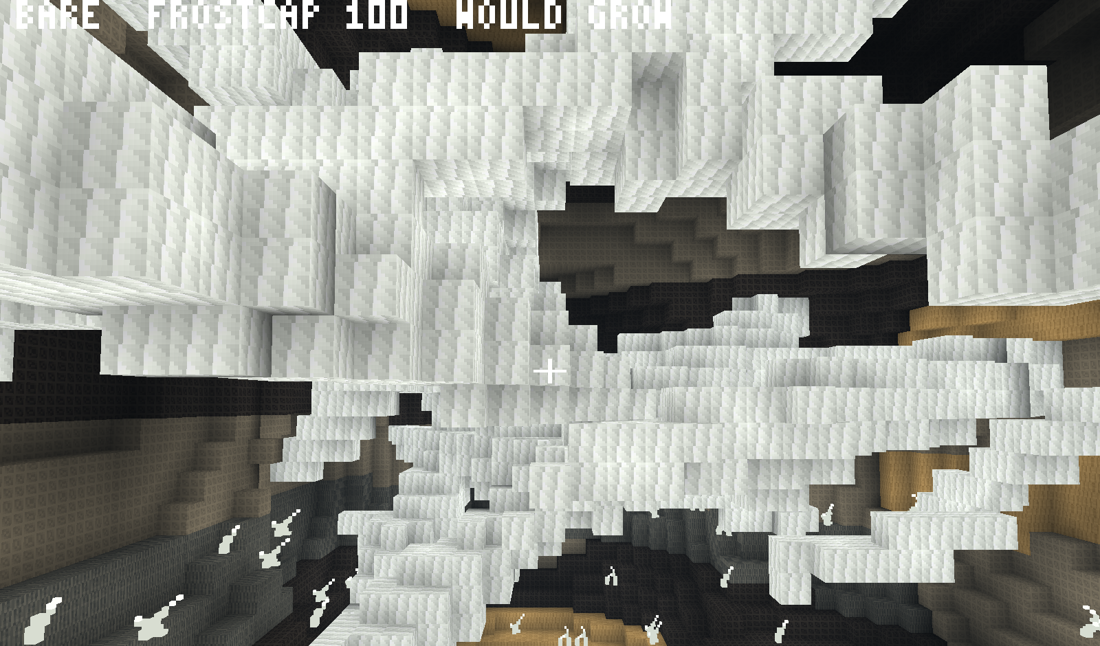
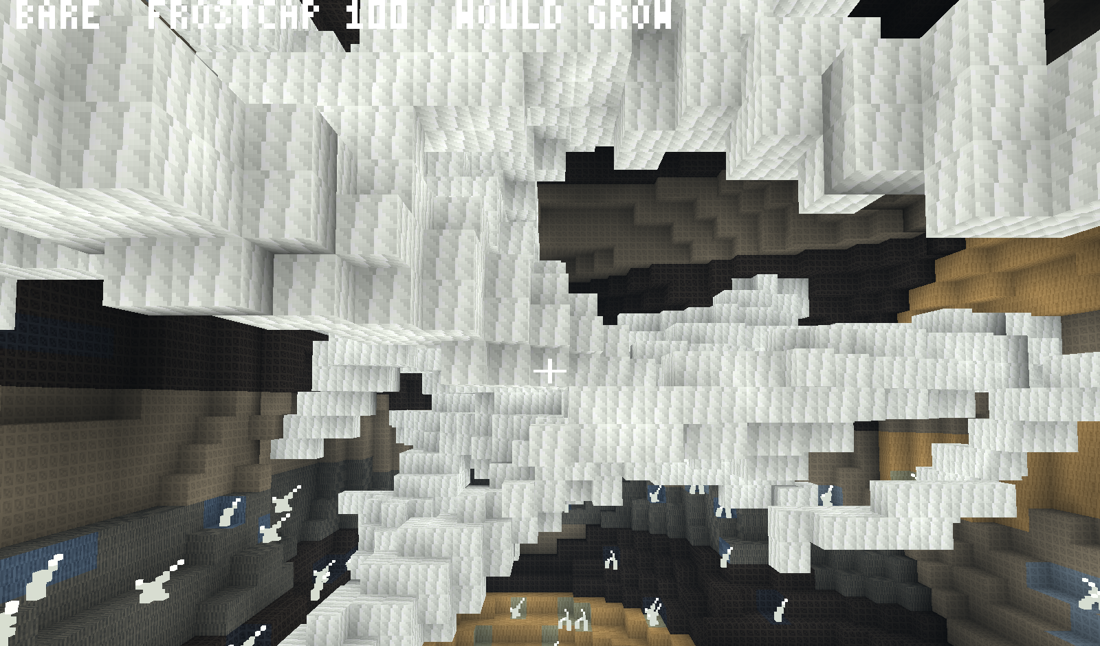
feat(light): coloured block light, in the nibble the byte had spare
Every emitter lit the world the same warm orange, so a selenite beam cast an
orange glow on the rock round it and the self-lit effect, which fixes an
emitter's own faces, could not fix what it cast. Three fields were the plan; a
nibble was enough. A block-light byte holds a level in its low nibble and
nothing in its high one, so the high nibble now carries the emitter's colour
index, swept along with the level: the sweep's reads compare on the low nibble
and its writes carry 16 x colour of the source to every neighbour it lights.
Skylight's nibble is always zero, so every skylight byte is what it was — and
so is every block-light byte in a world with no cold emitter: seed 7's pinned
hashes did not move.

Light.get strips the nibble, so every level caller is unchanged; Light.colour
reads it. key_for reads the colour just outside a face into bits 56-57 of the
greedy key; cf_quad_into decodes it into bits 16+ of the fx word; the shader
picks GLOW_COLD for colour 1. The effect id is eight bits, not sixteen: the
test pinning the sixteen-bit ceiling was pinning an accident.

Limit: two colours meeting make a seam, not a blend. One index is not three
channels.

534 tests. Worst frame 7.90 ms. docs/poi-crystal-cavern.png under its own light.

diff --git a/native/cf_shim.c b/native/cf_shim.c
@@ -247,7 +247,7 @@ static const char *VS =
     /* Water bobs: a small vertical wave on any water effect (>= 2). Cosmetic
      * only -- v_world stays at the true position so lighting, shadows and
      * fog see the block the game logic sees. */
-    "  int fe = int(a_fx + 0.5) >> 8;\n"
+    "  int fe = (int(a_fx + 0.5) >> 8) & 255;\n"
     "  vec3 p = a_pos;\n"
     "  vec3 n = NORMALS[f];\n"
     "  if (u_model == 1) {\n"
@@ -312,6 +312,10 @@ static const char *FS =
     /* Block light (glowing fungus, later any emissive block): warm, and its own
      * source rather than a sun term. */
     "const vec3  GLOW = vec3(1.00, 0.90, 0.70);\n"
+    /* Block light carries a colour index (Light.colour_cold): the cold, near-white
+     * cast of selenite, so a crystal cavern's walls are lit by what is in it
+     * rather than by the same orange as a glowing mushroom. */
+    "const vec3  GLOW_COLD = vec3(0.82, 0.94, 1.00);\n"
     /* Deep water. A water fragment has no idea how much water is under it --
      * its colour is a texture times the light -- so a 24-block lagoon rendered
      * exactly like a puddle. Still water (effect 10) carries its depth in
@@ -480,7 +484,8 @@ static const char *FS =
     "const vec2 DIRS[8] = vec2[8](vec2(1,0), vec2(0.7071,0.7071), vec2(0,1), vec2(-0.7071,0.7071), vec2(-1,0), vec2(-0.7071,-0.7071), vec2(0,-1), vec2(0.7071,-0.7071));\n"
     "void main(){\n"
     "  int  fxw = int(v_fx + 0.5);\n"
-    "  int  fe  = fxw >> 8;\n"
+    "  int  fe  = (fxw >> 8) & 255;\n"
+    "  int  lci = fxw >> 16;\n"
     /* The shade float packs two channels (see Vertex.pack_shade): sky shade in
      * [0, 1], and block-light shade in even integers above it. Overlays push a
      * plain shade in [0, 1], which decodes as sky-only and leaves them alone. */
@@ -570,7 +575,7 @@ static const char *FS =
      * glowing mushroom. This fixes the emitter's own faces; the light it casts
      * on the rock around it is still warm, and fixing that needs three
      * block-light fields. */
-    "  vec3  glow = (fe == 12) ? t.rgb * 1.15 : GLOW;\n"
+    "  vec3  glow = (fe == 12) ? t.rgb * 1.15 : ((lci == 1) ? GLOW_COLD : GLOW);\n"
     "  vec3  world = max(baked, bl * glow) + vec3(flash);\n"
     /* Overlays (HUD, outline, map marker) share this program but are not part of
      * the world: they keep their own vertex shade and skip lighting entirely. */
@@ -591,7 +596,7 @@ static const char *FS =
      * rain out exactly as the storm peaked.
      *
      * Exponential fog, so the far plane does not enter into it. */
-    "  if (u_unlit != 1 && (fx >> 8) != 1) lit = mix(lit, u_fog_color, fogf);\n"
+    "  if (u_unlit != 1 && ((fx >> 8) & 255) != 1) lit = mix(lit, u_fog_color, fogf);\n"
     /* Deep water is more opaque than shallow: you can read the bottom of a
      * puddle and not the bottom of a lagoon. */
     "  o_color = vec4(lit, mix(t.a * a, 1.0, 0.7 * deep));\n"
@@ -1623,10 +1628,11 @@ static double cf_brightness(double p) { double h = floor(p / 2.0); return (p - 2
  * A layer of 1000 or more is Texture.selflit_bias: the block lights its own
  * faces with its own colour, and the bias is how that one bit reaches here
  * without a second array through the FFI. Strip it and set effect 12. */
-static void cf_vert(float *o, double x, double y, double z, double u, double v, double layer, double shade, double face) {
+static void cf_vert(float *o, double x, double y, double z, double u, double v, double layer, double shade, double face, int64_t col) {
     double blk = floor(shade * 0.5);
-    double fx = 255.0;
-    if (layer >= 1000.0) { layer -= 1000.0; fx = 12.0 * 256.0 + 255.0; }
+    /* the block light's colour index rides in bits 16 and up of fx (Vertex.light_colour_of) */
+    double fx = 255.0 + 65536.0 * (double)col;
+    if (layer >= 1000.0) { layer -= 1000.0; fx = 12.0 * 256.0 + 255.0 + 65536.0 * (double)col; }
     o[0] = (float)x; o[1] = (float)y; o[2] = (float)z; o[3] = (float)u; o[4] = (float)v;
     o[5] = (float)layer; o[6] = (float)(shade - 2.0 * blk); o[7] = (float)face; o[8] = (float)fx;
     o[9] = (float)(blk / 255.0);
@@ -1695,6 +1701,7 @@ static void cf_quad_into(float *o, int64_t d, int64_t sy, int64_t a, int64_t u, 
     int64_t id = key % 256;
     int64_t c0 = (key / 256) % 1024, c1 = (key / 262144) % 1024, c2 = (key / 268435456) % 1024, c3 = (key / 274877906944LL) % 1024;
     int64_t sp = (key / 281474976710656LL) % 256;
+    int64_t col = (key / 72057594037927936LL) % 4;   /* the face's block-light colour, bits 56.. */
     double layer;
     if (id >= 26 && id <= 46 && sp > 0) {
         int64_t k = (id - 26) / 3;
@@ -1747,19 +1754,19 @@ static void cf_quad_into(float *o, int64_t d, int64_t sy, int64_t a, int64_t u, 
     double face = (double)d;
     int flip = cf_brightness(S[0]) + cf_brightness(S[2]) < cf_brightness(S[1]) + cf_brightness(S[3]);
     if (flip) {
-        cf_vert(o + 0,  X[1], Y[1], Z[1], uw,  0.0, layer, S[1], face);
-        cf_vert(o + 10,  X[2], Y[2], Z[2], uw,  vh,  layer, S[2], face);
-        cf_vert(o + 20, X[3], Y[3], Z[3], 0.0, vh,  layer, S[3], face);
-        cf_vert(o + 30, X[1], Y[1], Z[1], uw,  0.0, layer, S[1], face);
-        cf_vert(o + 40, X[3], Y[3], Z[3], 0.0, vh,  layer, S[3], face);
-        cf_vert(o + 50, X[0], Y[0], Z[0], 0.0, 0.0, layer, S[0], face);
+        cf_vert(o + 0,  X[1], Y[1], Z[1], uw,  0.0, layer, S[1], face, col);
+        cf_vert(o + 10,  X[2], Y[2], Z[2], uw,  vh,  layer, S[2], face, col);
+        cf_vert(o + 20, X[3], Y[3], Z[3], 0.0, vh,  layer, S[3], face, col);
+        cf_vert(o + 30, X[1], Y[1], Z[1], uw,  0.0, layer, S[1], face, col);
+        cf_vert(o + 40, X[3], Y[3], Z[3], 0.0, vh,  layer, S[3], face, col);
+        cf_vert(o + 50, X[0], Y[0], Z[0], 0.0, 0.0, layer, S[0], face, col);
     } else {
-        cf_vert(o + 0,  X[0], Y[0], Z[0], 0.0, 0.0, layer, S[0], face);
-        cf_vert(o + 10,  X[1], Y[1], Z[1], uw,  0.0, layer, S[1], face);
-        cf_vert(o + 20, X[2], Y[2], Z[2], uw,  vh,  layer, S[2], face);
-        cf_vert(o + 30, X[0], Y[0], Z[0], 0.0, 0.0, layer, S[0], face);
-        cf_vert(o + 40, X[2], Y[2], Z[2], uw,  vh,  layer, S[2], face);
-        cf_vert(o + 50, X[3], Y[3], Z[3], 0.0, vh,  layer, S[3], face);
+        cf_vert(o + 0,  X[0], Y[0], Z[0], 0.0, 0.0, layer, S[0], face, col);
+        cf_vert(o + 10,  X[1], Y[1], Z[1], uw,  0.0, layer, S[1], face, col);
+        cf_vert(o + 20, X[2], Y[2], Z[2], uw,  vh,  layer, S[2], face, col);
+        cf_vert(o + 30, X[0], Y[0], Z[0], 0.0, 0.0, layer, S[0], face, col);
+        cf_vert(o + 40, X[2], Y[2], Z[2], uw,  vh,  layer, S[2], face, col);
+        cf_vert(o + 50, X[3], Y[3], Z[3], 0.0, vh,  layer, S[3], face, col);
     }
 }
 

diff --git a/todos.md b/todos.md
@@ -35,7 +35,7 @@ measurements.
 - [x] **World size in the seed; the new-world page** — done 2026-09-05 (terrain-erosion spec, "World size"): 64/96/128-block worlds, the side packed above the age in the seed, NEW GAME asks size and age (RANDOM or set) before START, `CF_SIZE`, slots load at their own side. Above 128 is the literal refactor `world_size_test` names.
 - [x] **Lake outlets on ancient worlds** — resolved 2026-09-05: the creeping flow was cave worms breaching lake basins, not sheets on terraces; worms now keep out of basin walls (`Caves.basin_wall`, `CF_KARST`), and since a full lake turned out to have no outlet at all, the pour point is dug one block down as a notch, one per basin of six or more columns. Flow plateaus at ~400 cells at both ages. See the lakes spec §3 and §6.
 
-- [x] **Points of interest** — done 2026-09-07 (`docs/superpowers/specs/2026-09-06-points-of-interest-design.md`, plan `docs/superpowers/plans/2026-09-06-poi-phase1.md`, measurements in RESULTS). All seven kinds from the request are in: desert buttes, the stone arch, the crystal cavern, the giant tree, the canyon, the atoll, the delta. A kind is a row in `CubeForge.Poi`'s tables plus a shape from shared profiles; three classes (scatter, landmark, field) decide where its rules are read; `CF_POI_PREVIEW=<kind>` draws it, `CF_POI_TRANSECT=<z>` reads a landform across the world, `CF_POI_GATE=1` says which placement rule refuses a kind, and one test walks every kind through the invariants. `CF_POI=0` leaves the world bit-identical. Landed on the way: the water depth tint, self-lit emissive faces, `CF_SPAWN_X/Z`, `CF_YAW`. **Follow-ups, not started:** coloured block light (three fields) so an emitter's cast light matches its own colour; another look at the crystals' proportions; the atoll now sits in real sea: an open-ocean regime landed in `Noise` on 2026-09-07 (`ocean_mask`, `ocean_of`), and the atoll's country is the ocean's mask.
+- [x] **Points of interest** — done 2026-09-07 (`docs/superpowers/specs/2026-09-06-points-of-interest-design.md`, plan `docs/superpowers/plans/2026-09-06-poi-phase1.md`, measurements in RESULTS). All seven kinds from the request are in: desert buttes, the stone arch, the crystal cavern, the giant tree, the canyon, the atoll, the delta. A kind is a row in `CubeForge.Poi`'s tables plus a shape from shared profiles; three classes (scatter, landmark, field) decide where its rules are read; `CF_POI_PREVIEW=<kind>` draws it, `CF_POI_TRANSECT=<z>` reads a landform across the world, `CF_POI_GATE=1` says which placement rule refuses a kind, and one test walks every kind through the invariants. `CF_POI=0` leaves the world bit-identical. Landed on the way: the water depth tint, self-lit emissive faces, `CF_SPAWN_X/Z`, `CF_YAW`. **Follow-ups:** coloured block light landed 2026-09-07 as a colour index in the block-light byte's spare nibble, not three fields -- cast light now matches the emitter, with a hard seam rather than a blend where two colours meet; the crystals were revisited the same day with `CF_POI_SLICE`; the atoll now sits in real sea: an open-ocean regime landed in `Noise` on 2026-09-07 (`ocean_mask`, `ocean_of`), and the atoll's country is the ocean's mask.
 
 ## Play
 

diff --git a/RESULTS.md b/RESULTS.md
@@ -3377,3 +3377,39 @@ change the slice showed plainly. The world hash at that spawn responds to
 `CF_POI`, so the beams were there; at floor level looking down, a chamber whose
 ceiling is white shafts looks the same whether the shafts are a slab or six.
 The camera was the wrong instrument; the slice was the right one.
+
+## Coloured block light, in the nibble the byte had spare (2026-09-07)
+
+Every emitter lit the world the same warm orange, so a near-white selenite
+beam cast an orange glow on the rock round it, and the self-lit effect (which
+fixes an emitter's own faces) could not fix what it cast. The design note said
+three fields -- 12 MB instead of 4, three sweeps, a wider vertex. It was not
+needed. A block-light byte holds a level of 0..15 in its low nibble and nothing
+in its high one, so the high nibble now carries the emitter's **colour index**,
+swept along with the level: `give1`, `give_level`, `at_level`, `level_go`, the
+gather and the two write sites (`list_go`, `full_row_ip`) compare on the low
+nibble and carry `16 * colour` of the source into every neighbour they light.
+Seeding writes `pack_bl(emission, emission_colour)`. Skylight's colour nibble is
+always zero, so every skylight byte is what it was, bit for bit -- and so is
+every block-light byte in a world without a cold emitter: seed 7's pinned
+hashes did not move.
+
+From the field to the pixel: `Light.get` strips the nibble, so every caller that
+wanted a level still gets one; `Light.colour` reads it. `key_for` reads the
+colour at the voxel just outside a face and puts it in **bits 56 and 57** of the
+greedy key, above the species, so faces lit by different emitters do not merge;
+`cf_quad_into` decodes it and `cf_vert` writes it into bits 16 and up of the fx
+word (`Vertex.light_colour_of`); the shader picks `GLOW_COLD` -- (0.82, 0.94,
+1.00) -- for colour 1 and the old warm `GLOW` otherwise. The effect id is eight
+bits now, not sixteen: the one test that pinned the sixteen-bit ceiling was
+pinning an accident of the old layout, and now pins the eight-bit one and that
+the colour above it does not leak.
+
+The one behaviour deliberately left: two emitters of different colours within
+reach of one voxel do not blend. The voxel takes the colour of whichever gave
+it its level -- a hard seam, not a gradient. No world has both kinds in one
+cavern today; when one does, the seam is a real limit of one index against
+three channels, and it will show.
+
+534 tests. Worst frame 7.90 ms against 16; the drained mesh equals the rebuild.
+`docs/poi-crystal-cavern.png` is the seed 18 chamber under its own light.

diff --git a/docs/superpowers/specs/2026-09-06-points-of-interest-design.md b/docs/superpowers/specs/2026-09-06-points-of-interest-design.md
@@ -387,3 +387,12 @@ abyssal floor, full up to sea + 12 and fading above so high ground is an island
 an atoll, in open water, ring and lagoon and gap all readable from above. Three
 pinned terrain tests broke on the way, each a hunt asking a simpler question
 than the generator; RESULTS has them.
+
+## 15. Coloured block light (2026-09-07)
+
+Not three fields. The block-light byte's spare high nibble carries the
+emitter's colour index, swept with the level; skylight's is always zero, so
+nothing there changes. `Light.get` still returns a level; `Light.colour` reads
+the index. The face key carries it in bits 56-57, the fx word in bits 16 and up,
+and the shader picks a cold glow for colour 1. The limit is a hard seam where
+two colours meet, not a blend -- one index is not three channels. RESULTS.
